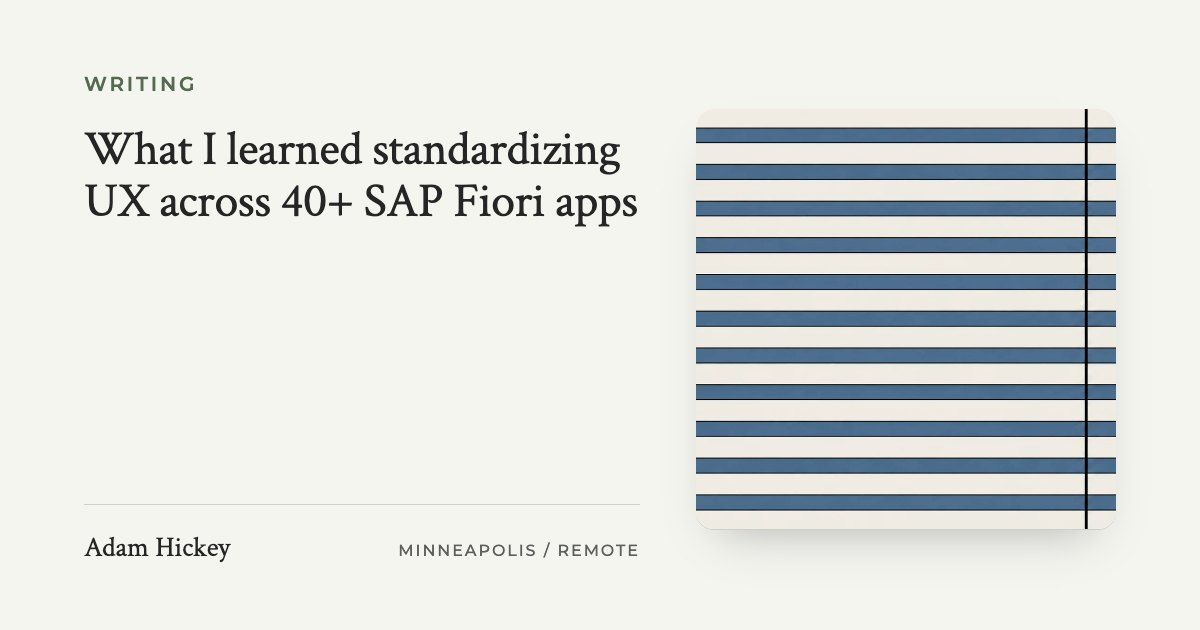
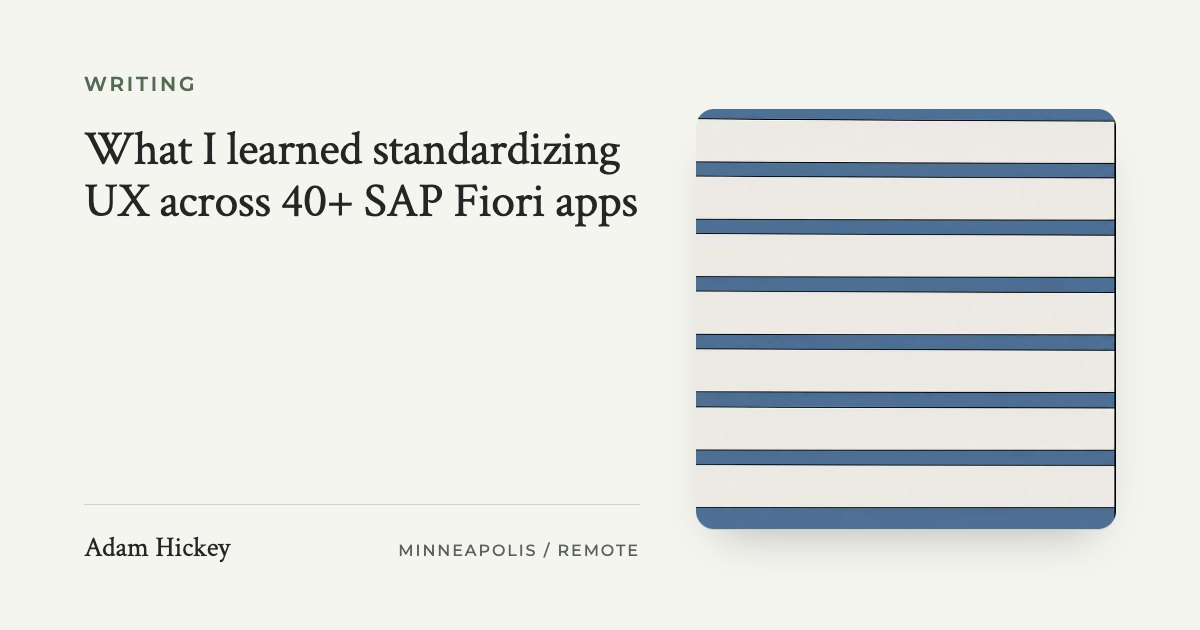
The Fiori blind has eight slats, not thirteen
At the hero's full width the thirteen-slat blind read as a wall of
stripes; eight thick ones read as a blind. The prompt names the count
twice, because the generator ignored a softer instruction on the
scene. Feature, card and share card re-cut; the scene stays as it is.

Changed region(s): [[0.555, 0.1508, 0.9558, 0.8444]]

diff --git a/writing/index.html b/writing/index.html
@@ -313,7 +313,7 @@
           </li>
           <li class="writing-item">
             <a class="writing-link" href="standardizing-ux-across-40-sap-fiori-apps.html">
-              <img class="writing-card" src="../img/writing/standardizing-ux-across-40-sap-fiori-apps-card.webp?v=4" width="640" height="360" alt="" loading="lazy" decoding="async" />
+              <img class="writing-card" src="../img/writing/standardizing-ux-across-40-sap-fiori-apps-card.webp?v=5" width="640" height="360" alt="" loading="lazy" decoding="async" />
               <div class="writing-text">
                 <h2 class="writing-title">What I learned standardizing UX across 40+ SAP Fiori apps</h2>
                 <p class="writing-dek">Lead UX for 40+ SAP Fiori apps built by different teams: one style guide and component library, feedback loops, checks in the release process, and teams that own it.</p>

diff --git a/writing/standardizing-ux-across-40-sap-fiori-apps.html b/writing/standardizing-ux-across-40-sap-fiori-apps.html
@@ -277,7 +277,7 @@
              the answer is read before the picture is, and inside the hero
              so it sits on the warm ground with the title. -->
         <figure class="writing-feature">
-          <img src="../img/writing/standardizing-ux-across-40-sap-fiori-apps.webp?v=4" width="1600" height="900" alt="A cream venetian blind filling a slate field, every slat tilted the same way, and one black pull cord hanging straight down." fetchpriority="high" decoding="async" />
+          <img src="../img/writing/standardizing-ux-across-40-sap-fiori-apps.webp?v=5" width="1600" height="900" alt="A cream venetian blind of eight thick slats filling a slate field, every slat tilted the same way, and one black pull cord hanging straight down." fetchpriority="high" decoding="async" />
         </figure>
       </div>
     </header>
